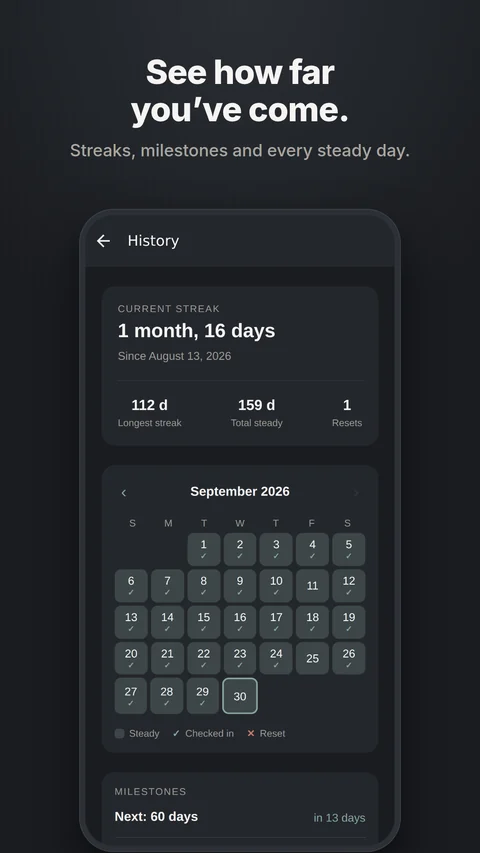
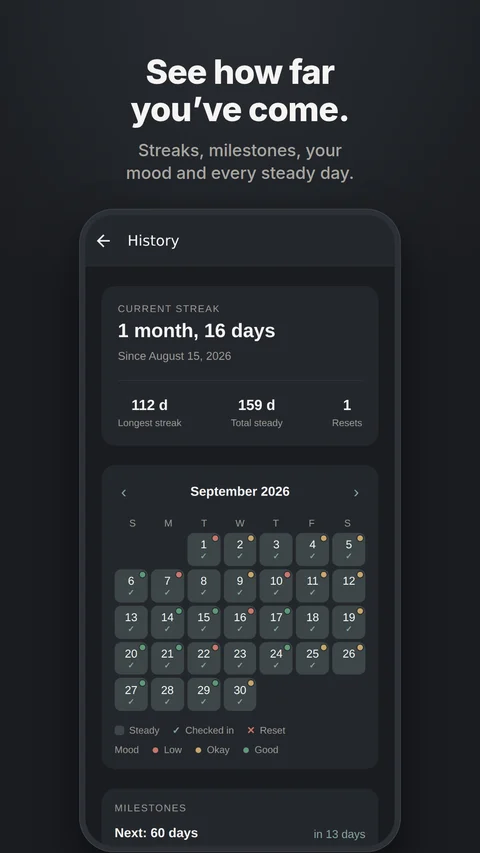
Add the journal and Insights to the site, refresh app images
Home: a Journal feature card (free, with Premium Insights), mood on the
History card, an Insights screenshot in a five-image strip, and Insights
in the Premium list. FAQ: a Journal & insights section, switching habits,
and History on the home screen. Privacy policy and the delete-data page
now name journal entries among what's stored on the phone and what Delete
all data removes.

Claude-Session: https://claude.ai/code/session_01MTgYZ5WjsNwJxvnwtJL6QF

diff --git a/faq.html b/faq.html
@@ -53,6 +53,7 @@
       <nav class="faq-toc" aria-label="FAQ categories">
         <a href="#getting-started">Getting started</a>
         <a href="#clock-checkins">Clock &amp; check-ins</a>
+        <a href="#journal">Journal &amp; insights</a>
         <a href="#money-saved">Money saved</a>
         <a href="#notifications">Notifications</a>
         <a href="#privacy-data">Privacy &amp; your data</a>
@@ -92,7 +93,7 @@
           <details class="faq-item">
             <summary>Can I track more than one habit?</summary>
             <div class="faq-answer">
-              <p>Tracking a single habit is free. Tracking multiple habits at once is part of the one-time Premium unlock. Tap "Habits" on the home screen to add more once you've purchased it.</p>
+              <p>Tracking a single habit is free. Tracking multiple habits at once is part of the one-time Premium unlock. Tap "Habits" on the home screen to add more once you've purchased it. With more than one habit, tap the habit's name above the clock to switch between them.</p>
             </div>
           </details>
         </section>
@@ -131,7 +132,53 @@
           <details class="faq-item">
             <summary>Where can I see my history?</summary>
             <div class="faq-answer">
-              <p>With Premium, open Habits and tap "History" next to a habit. You'll see your current and longest streak, total days steady, resets, a month-by-month calendar (steady days shaded, check-ins ✓, resets ✕), and the milestones you've reached. Every check-in stays on your device either way, and an export includes all of them.</p>
+              <p>With Premium, tap "History" on the home screen, or "History" next to a habit in Habits. You'll see your current and longest streak, total days steady, resets, a month-by-month calendar (steady days shaded, check-ins ✓, resets ✕, and a colored dot for your mood on days you logged one), and the milestones you've reached. Every check-in stays on your device either way, and an export includes all of them.</p>
+            </div>
+          </details>
+        </section>
+
+        <section class="faq-group" id="journal">
+          <h2>Journal &amp; insights</h2>
+
+          <details class="faq-item">
+            <summary>What is the journal?</summary>
+            <div class="faq-answer">
+              <p>A quick way to note how you're doing: your mood (Rough to Great), how strong a craving is (None to Intense), what's going on (triggers like Stress or Social event), and an optional note. Every part is optional. Tap "Journal" on the home screen, or "How are you feeling?" after you check in. The journal is free.</p>
+            </div>
+          </details>
+
+          <details class="faq-item">
+            <summary>Who can see my journal?</summary>
+            <div class="faq-answer">
+              <p>Only you. Entries are stored on your phone like everything else in Steady. They're included in your encrypted backup and your data export, and Delete all data removes them.</p>
+            </div>
+          </details>
+
+          <details class="faq-item">
+            <summary>How do I edit or delete an entry?</summary>
+            <div class="faq-answer">
+              <p>Open Journal and tap the entry. Change anything and tap Save, or tap "Delete entry" at the bottom.</p>
+            </div>
+          </details>
+
+          <details class="faq-item">
+            <summary>Can I add my own triggers?</summary>
+            <div class="faq-answer">
+              <p>Yes. Tap "+ New" while logging, or "Edit triggers" to add, rename or archive them. Archiving hides a trigger from new entries but keeps it on the ones you've already logged.</p>
+            </div>
+          </details>
+
+          <details class="faq-item">
+            <summary>What does Insights show?</summary>
+            <div class="faq-answer">
+              <p>Insights is part of Premium. Over the last 30 or 90 days it shows your mood and craving trends, when cravings tend to be strongest by time of day and day of the week, and which triggers come up most, in plain sentences like "Stress came up on 9 of your last 30 days. Cravings were stronger on those days." It's all worked out on your phone. Insights describe patterns in what you've logged; they aren't medical advice.</p>
+            </div>
+          </details>
+
+          <details class="faq-item">
+            <summary>Why don't I see trigger patterns yet?</summary>
+            <div class="faq-answer">
+              <p>They appear once 10 entries in the period have a trigger tagged, so a few early entries don't read as a pattern. Insights shows how many more you need.</p>
             </div>
           </details>
         </section>
@@ -268,7 +315,7 @@
           <details class="faq-item">
             <summary>What does Premium include?</summary>
             <div class="faq-answer">
-              <p>Tracking multiple habits at once, a full history screen with streaks, milestones and a calendar, premium accent themes, and encrypted cloud backup to your own iCloud or Google Drive.</p>
+              <p>Tracking multiple habits at once, a full history screen with streaks, milestones and a calendar, mood and craving insights, premium accent themes, and encrypted cloud backup to your own iCloud or Google Drive.</p>
             </div>
           </details>
 

diff --git a/index.html b/index.html
@@ -103,6 +103,11 @@
             <p>Local notifications mark 7, 14, 30, 60, 90, 180, and 365 days, and you can add a daily check-in reminder. Your phone schedules all of them.</p>
           </div>
           <div class="card">
+            <div class="tag">Free + Premium insights</div>
+            <h3>Journal</h3>
+            <p>Note your mood, a craving and what set it off in a few taps. With Premium, Insights shows your trends, when cravings hit hardest, and which triggers come up most.</p>
+          </div>
+          <div class="card">
             <div class="tag">Premium</div>
             <h3>Multiple habits</h3>
             <p>Track more than one habit at a time, like alcohol and nicotine, each with its own clock.</p>
@@ -110,7 +115,7 @@
           <div class="card">
             <div class="tag">Premium</div>
             <h3>Full history</h3>
-            <p>Current and longest streak, milestones reached, and a month-by-month calendar of every steady day.</p>
+            <p>Current and longest streak, milestones reached, and a month-by-month calendar of every steady day and your mood.</p>
           </div>
           <div class="card">
             <div class="tag">Premium</div>
@@ -131,7 +136,11 @@
           </li>
           <li>
             <img src="/assets/img/screens/history.webp" width="480" height="853" loading="lazy"
-              alt="See how far you've come. The history screen shows a current streak of 1 month, 16 days, a 112-day longest streak, 1 reset, and a calendar of steady days and check-ins." />
+              alt="See how far you've come. The history screen shows a current streak of 1 month, 16 days, a 112-day longest streak, 1 reset, and a calendar of steady days, check-ins and mood." />
+          </li>
+          <li>
+            <img src="/assets/img/screens/insights.webp" width="480" height="853" loading="lazy"
+              alt="Understand your cravings. Insights shows average craving by time of day and day of the week, strongest on Fridays and Saturdays, and plain-language trigger patterns such as: Stress came up on 4 days of your last 30, and cravings were stronger on those days." />
           </li>
           <li>
             <img src="/assets/img/screens/habits.webp" width="480" height="853" loading="lazy"
@@ -184,6 +193,7 @@
           <ul class="pricing-list">
             <li>Track multiple habits at once</li>
             <li>Full history: streaks, milestones and a calendar</li>
+            <li>Mood and craving insights</li>
             <li>Premium accent themes</li>
             <li>Encrypted cloud backup to your own iCloud / Google Drive</li>
           </ul>

diff --git a/delete-data.html b/delete-data.html
@@ -41,7 +41,7 @@
 
   <main class="wrap content-page">
     <h1>Delete your Steady data</h1>
-    <p class="updated">Last updated September 28, 2026</p>
+    <p class="updated">Last updated October 1, 2026</p>
 
     <p>
       This page explains how to delete your data from <strong>Steady: Sobriety &amp; Habit
@@ -57,7 +57,7 @@
     </ol>
     <p>
       This immediately and permanently deletes every habit, start date, check-in, relapse
-      log, note, and setting stored on the device. It can't be undone, so export a copy
+      log, journal entry, trigger, note, and setting stored on the device. It can't be undone, so export a copy
       first (Settings → Privacy → <strong>Export my data</strong>) if you might want it later. Uninstalling Steady
       also deletes all on-device data.
     </p>
@@ -112,7 +112,7 @@
 
     <h2>What's deleted and what's kept</h2>
     <ul>
-      <li><strong>Deleted:</strong> all on-device habit, check-in, and settings data (step 1); your cloud backup (step 2); the RevenueCat purchase record (step 3).</li>
+      <li><strong>Deleted:</strong> all on-device habit, check-in, journal, and settings data (step 1); your cloud backup (step 2); the RevenueCat purchase record (step 3).</li>
       <li>
         <strong>Kept by Google or Apple, not by us:</strong> your purchase transaction, which
         Google Play or the App Store retains under its own policies for billing, refunds,

diff --git a/privacy.html b/privacy.html
@@ -41,7 +41,7 @@
 
   <main class="wrap content-page">
     <h1>Privacy Policy</h1>
-    <p class="updated">Last updated September 28, 2026</p>
+    <p class="updated">Last updated October 1, 2026</p>
 
     <p>
       Steady ("the app") is built so there's very little to say in a privacy policy. We
@@ -53,7 +53,8 @@
     <h2>What Steady stores, and where</h2>
     <p>
       Steady stores everything you enter (habit names, start dates, daily check-ins,
-      relapse logs, notes, and settings) locally on your device, in a database that stays
+      relapse logs, journal entries such as moods, cravings, triggers and notes, and settings)
+      locally on your device, in a database that stays
       on your phone by default. We have no server that receives, processes, or stores this
       information, and no way to access it.
     </p>

diff --git a/assets/css/style.css b/assets/css/style.css
@@ -395,7 +395,7 @@ section {
   margin: 56px 0 0;
   padding: 0;
   display: grid;
-  grid-template-columns: repeat(4, 1fr);
+  grid-template-columns: repeat(5, 1fr);
   gap: 20px;
 }
 
@@ -697,7 +697,7 @@ footer {
   }
 
   .screens {
-    grid-template-columns: repeat(4, 64%);
+    grid-template-columns: repeat(5, 64%);
     overflow-x: auto;
     scroll-snap-type: x mandatory;
     padding-bottom: 8px;
@@ -778,7 +778,7 @@ footer {
   }
 
   .screens {
-    grid-template-columns: repeat(4, 78%);
+    grid-template-columns: repeat(5, 78%);
   }
 
   .pricing-card,
